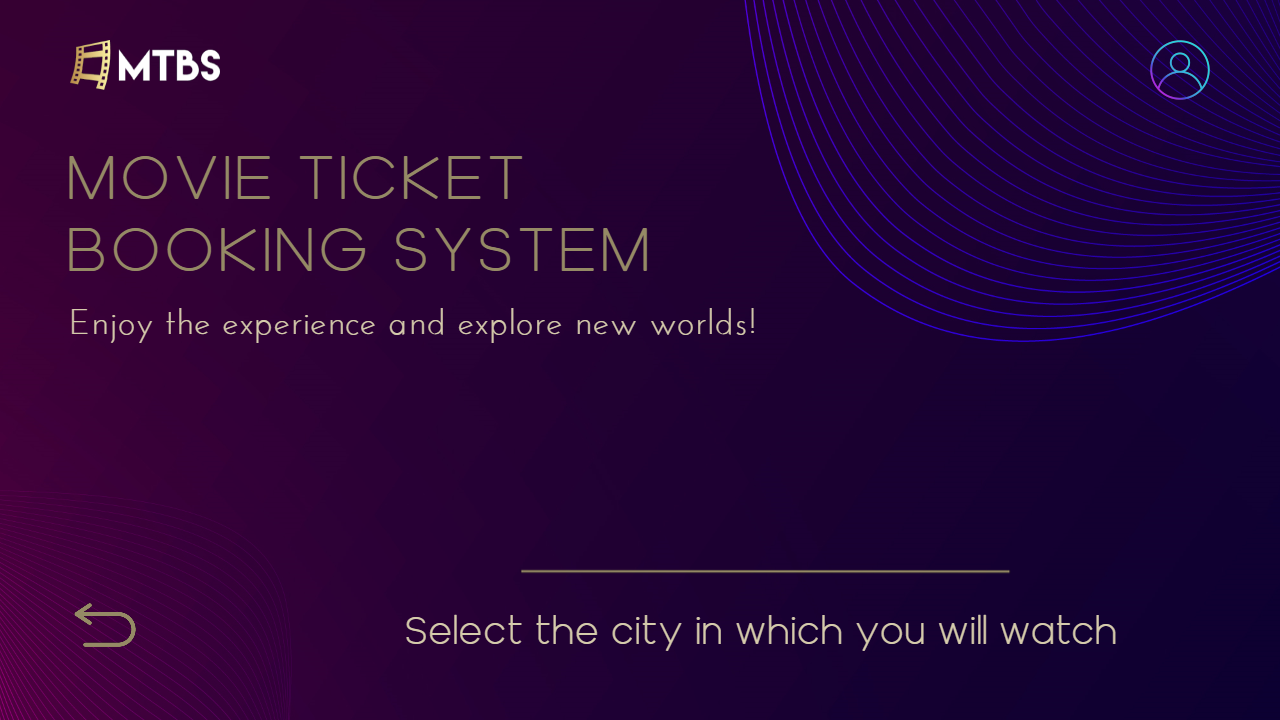
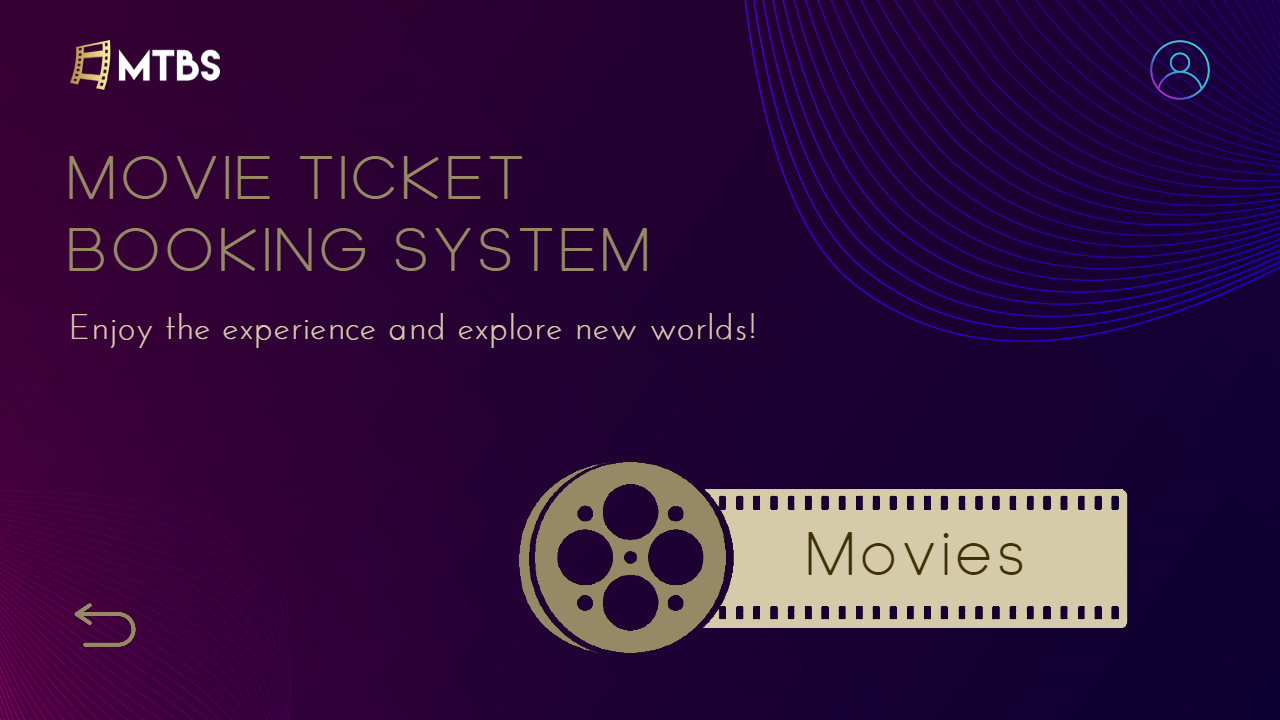
Modify application main menu

Changed region(s): [[0.3125, 0.6417, 0.9062, 0.9167], [0.0625, 0.4278, 0.5938, 0.4889]]

diff --git a/MovieTicketBookingSystem/MovieTicketBookingSystem/Front-End/CppFiles/startApplication.cpp b/MovieTicketBookingSystem/MovieTicketBookingSystem/Front-End/CppFiles/startApplication.cpp
@@ -4,7 +4,7 @@
 MainMenu::MainMenu()
 {
 	mainMenuBackground = LoadTexture("../assets/mainMenuBackground.png");
-	button = LoadTexture("../assets/button.png");
+	startButton = LoadTexture("../assets/startButton.png");
 	exitButton = LoadTexture("../assets/exit.png");
 
 	font = LoadFont("../assets/font.ttf");
@@ -13,7 +13,7 @@ MainMenu::MainMenu()
 MainMenu::~MainMenu()
 {
 	UnloadTexture(mainMenuBackground);
-	UnloadTexture(button);
+	UnloadTexture(startButton);
 	UnloadTexture(exitButton);
 
 	UnloadFont(font);
@@ -41,9 +41,14 @@ void MainMenu::DrawMainMenu()
 {
 	DrawTexture(mainMenuBackground, 0, 0, RAYWHITE);
 
-	DrawButton(360, 455, 250, 70, button, { 425, 465 }, 50, "Sofia", font);
-	DrawButton(640, 455, 250, 70, button, { 696, 465 }, 50, "Varna", font);
-	DrawButton(920, 455, 250, 70, button, { 967, 465 }, 50, "Burgas", font);
+	if (checkCollision(519, 462, 608, 191))
+	{
+		DrawTexture(startButton, 519, 462, { 150, 144, 144 ,255 });
+		if (IsMouseButtonPressed(MOUSE_BUTTON_LEFT))
+		{
+			
+		}
+	}
 	
 	if (checkCollision(70, 600 , 65, 45))
 	{

diff --git a/MovieTicketBookingSystem/MovieTicketBookingSystem/Front-End/HeaderFiles/startApplication.h b/MovieTicketBookingSystem/MovieTicketBookingSystem/Front-End/HeaderFiles/startApplication.h
@@ -26,7 +26,7 @@ private:
 	//void newGame();
 
 	Texture2D mainMenuBackground;
-	Texture2D button;
+	Texture2D startButton;
 	Texture2D exitButton;
 
 	Font font;
